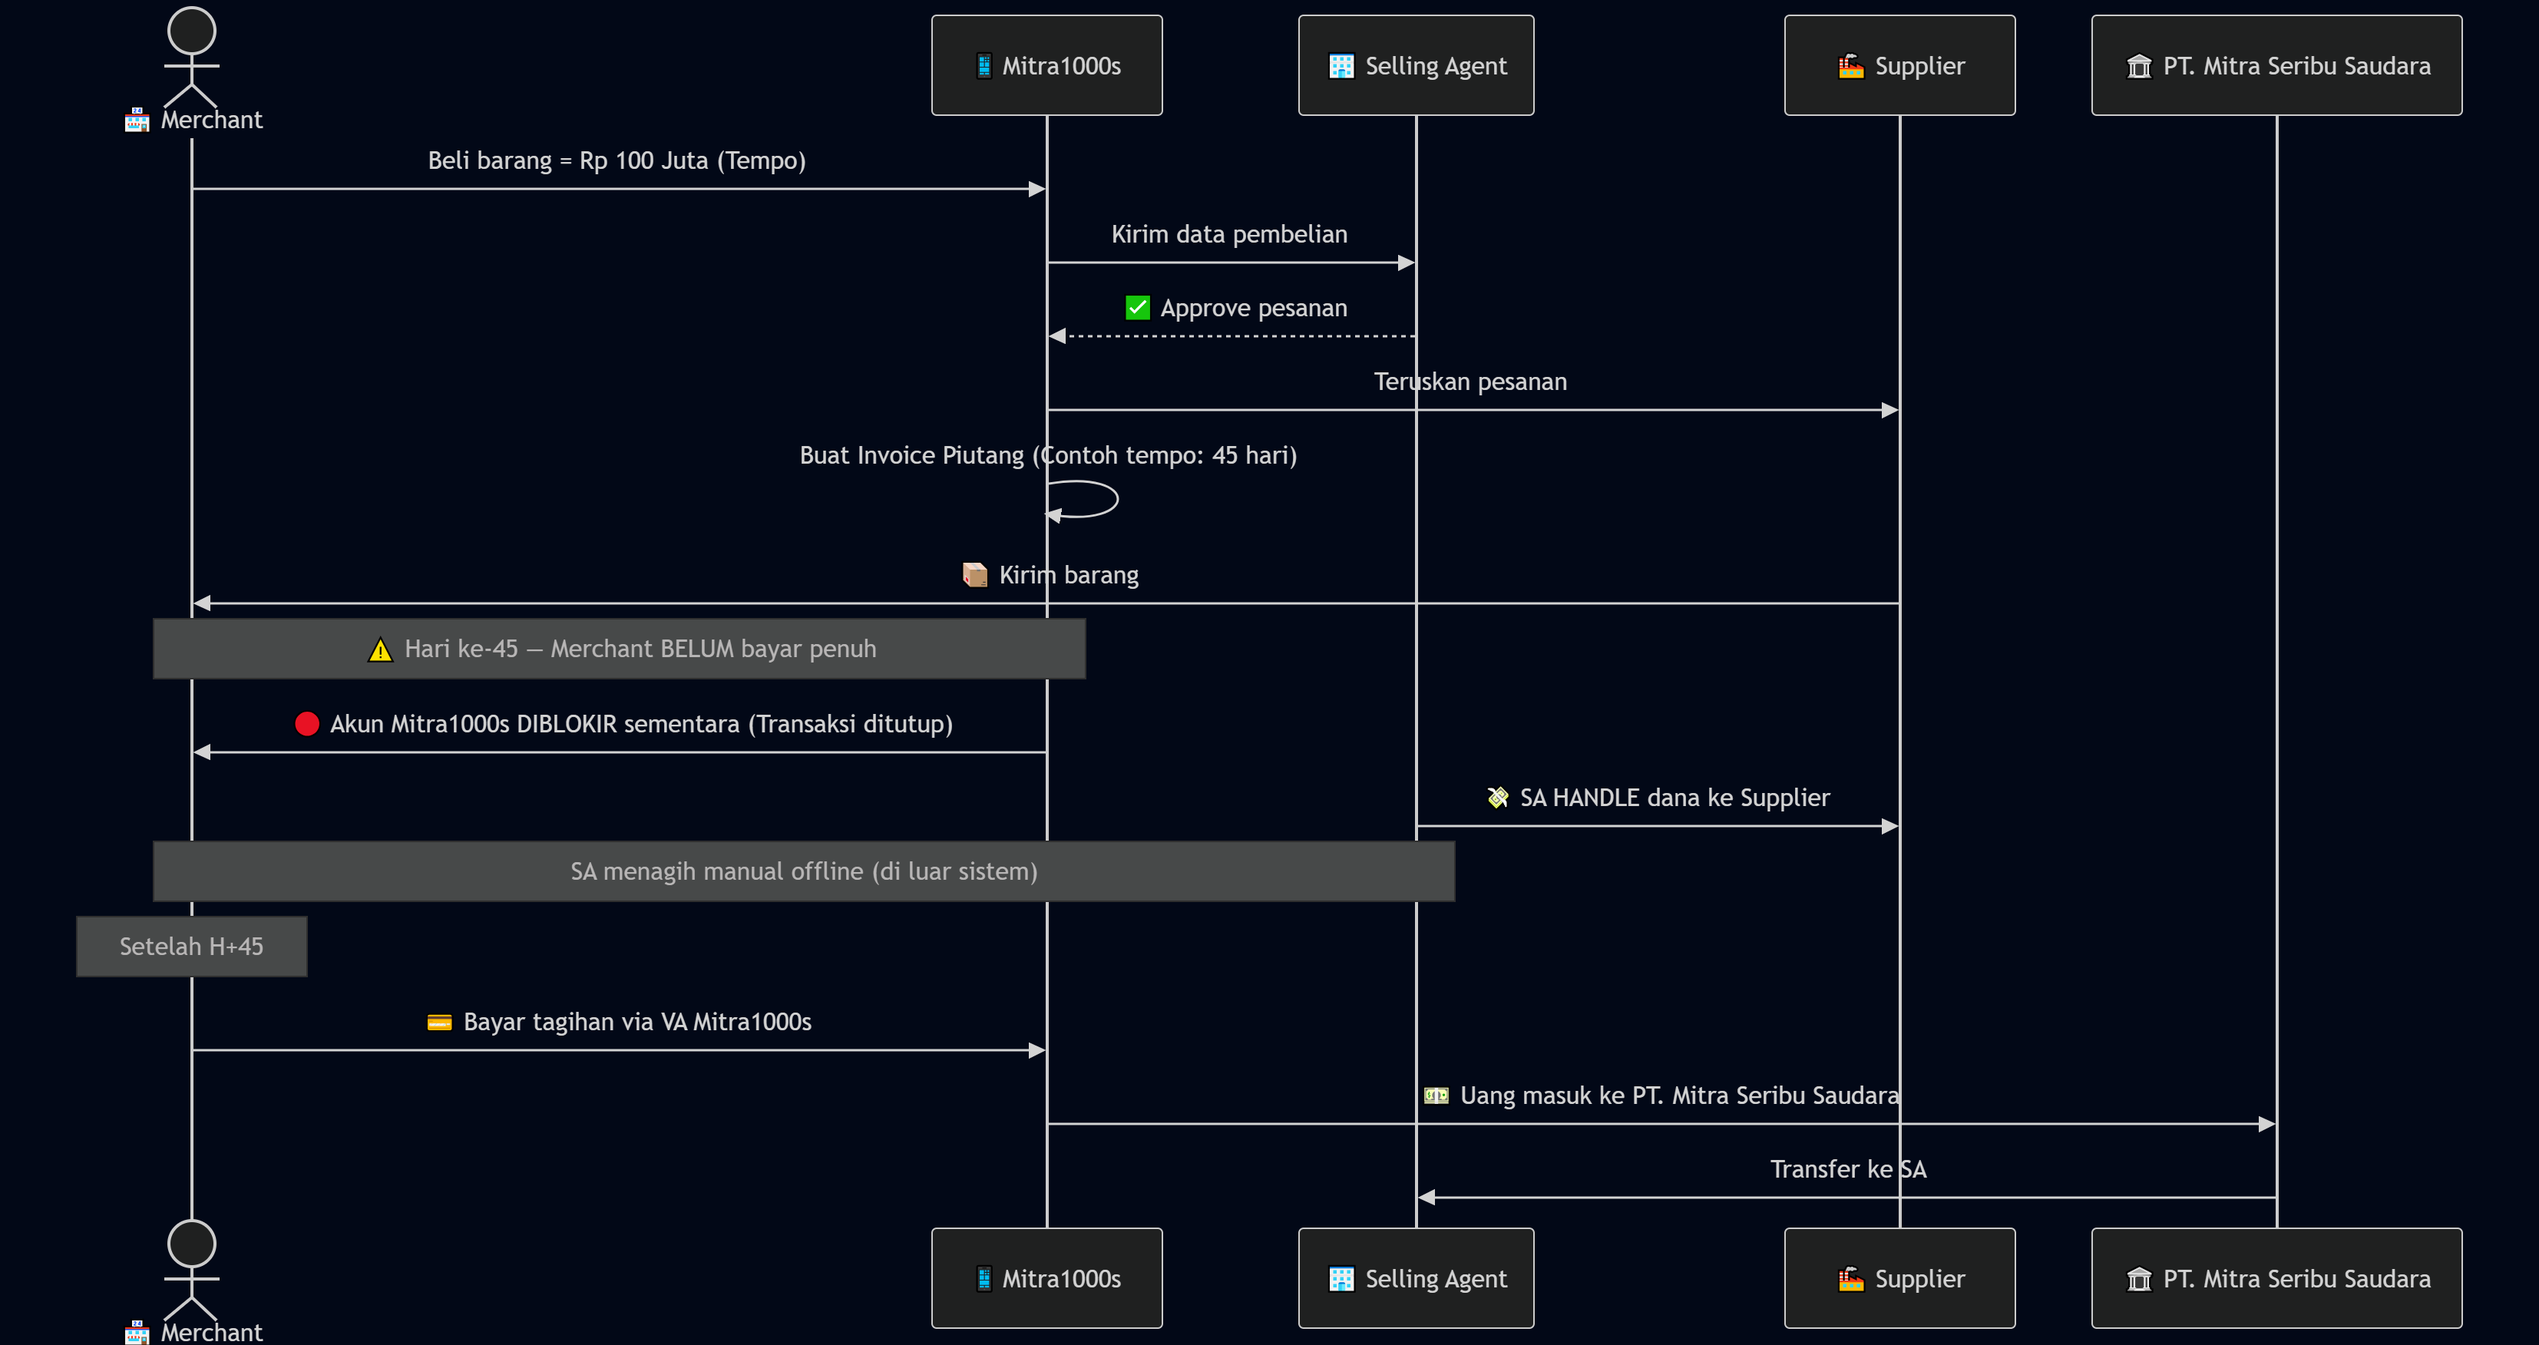
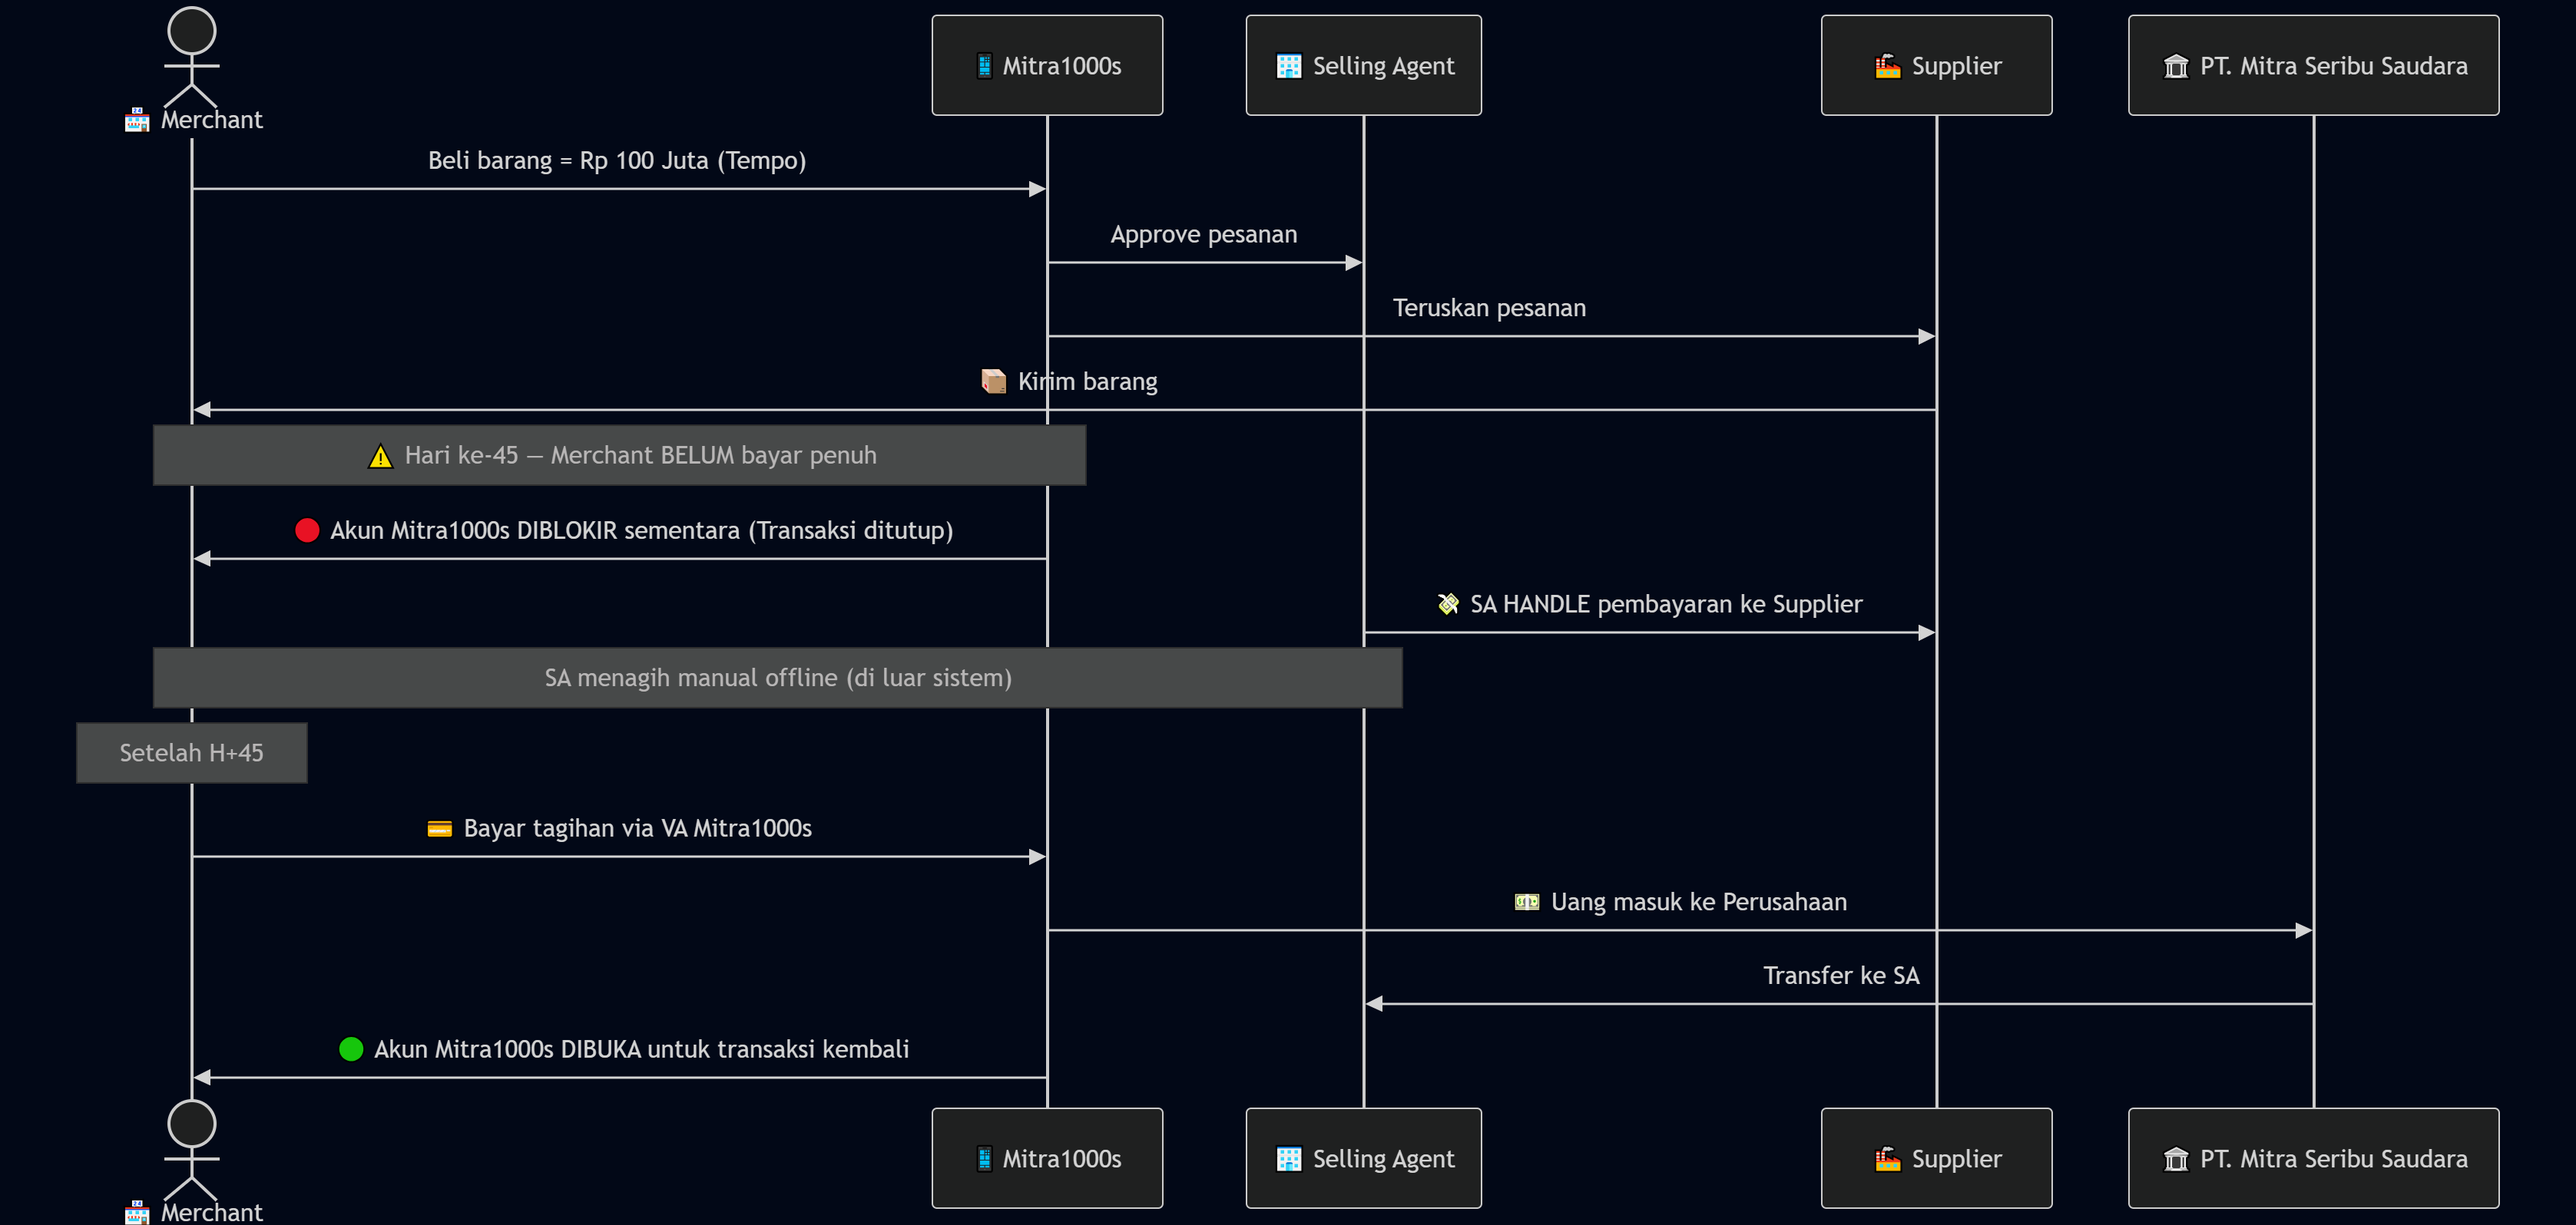
Order beli lunas pengajuan kredit

diff --git a/index.html b/index.html
@@ -12,7 +12,7 @@
 
 <body>
   <div class="progress-bar" id="progressBar"></div>
-  <div class="slide-counter" id="slideCounter">1 / 18</div>
+  <div class="slide-counter" id="slideCounter">1 / 15</div>
   <nav class="nav-arrows">
     <button class="nav-btn" id="prevBtn" onclick="changeSlide(-1)">‹</button>
     <button class="nav-btn" id="nextBtn" onclick="changeSlide(1)">›</button>
@@ -140,66 +140,36 @@
         </div>
       </div>
     </div>
-    </div>
   </section>
 
   <!-- SLIDE 6: Pembukaan Akun Kredit -->
   <section class="slide" id="slide-5">
     <div class="slide-inner">
-      <div class="slide-label">FASE 1-3 (PENDAFTARAN)</div>
-      <h2>Pengajuan & <span class="accent">Auto-Approve</span></h2>
+      <div class="slide-label">FLOW 3 — FASE PENDAFTARAN</div>
+      <h2>Pengajuan & <span class="accent">Pemberian Limit</span></h2>
       <div class="diagram-container" onclick="openZoom(this)">
-        <img src="pembukaan_akun_kredit.png" alt="Pembukaan Akun Kredit">
+        <img src="pengajuan_akun.png" alt="Pengajuan Akun Kredit">
       </div>
     </div>
   </section>
 
-  <!-- SLIDE 7: Fintech Flow Skema Lama Tanpa Skip -->
+  <!-- SLIDE 7: Fintech End To End Master Skema Lama -->
   <section class="slide" id="slide-6">
     <div class="slide-inner">
-      <div class="slide-label">FLOW 3 — SKEMA PERTAMA (KUMULATIF DI AKHIR)</div>
-      <h2>Solusi <span class="accent">Utama</span> (TANPA SKIP PAYMENT)</h2>
+      <div class="slide-label">FLOW 4 — MASTER END-TO-END STORYTELLING</div>
+      <h2>Order Beli <span class="accent">Hingga Lunas Tagihan</span> Fintech1000s</h2>
       <div class="diagram-container" onclick="openZoom(this)">
-        <img src="skema_lama_tanpa_skip.png" alt="Skema Lama Tanpa Skip">
+        <img src="end_to_end_skema_lama.png" alt="End-To-End Restrukturisasi Skema Lama">
+      </div>
+      <div class="calc-note" style="margin-top: 10px; font-size: 0.85rem">
+        Alur Master: Transaksi Normal ➔ Jatuh Tempo ➔ Akun Terblokir ➔ Validasi Akun Kredit Limit ➔ Pembayaran Parsial ➔
+        Akun Dibuka ➔ Cicilan Restruk (Pokok diangsur, Bunga diakumulasi bayar akhir).
       </div>
     </div>
   </section>
 
-  <!-- SLIDE 7: Fintech Flow Skema Lama Dengan Skip -->
-  <section class="slide" id="slide-6">
-    <div class="slide-inner">
-      <div class="slide-label">FLOW 3 — SKEMA PERTAMA (KUMULATIF DI AKHIR)</div>
-      <h2>Solusi <span class="accent-red">Utama</span> (DENGAN SKIP PAYMENT M-2)</h2>
-      <div class="diagram-container" onclick="openZoom(this)">
-        <img src="skema_lama_dengan_skip.png" alt="Skema Lama Dengan Skip">
-      </div>
-    </div>
-  </section>
-
-  <!-- SLIDE 8: Fintech Flow Skema Baru Tanpa Skip -->
+  <!-- SLIDE 8: Interest Table -->
   <section class="slide" id="slide-7">
-    <div class="slide-inner">
-      <div class="slide-label">FLOW 4 — SKEMA KEDUA (PAY-AS-YOU-GO)</div>
-      <h2>Opsi <span class="accent-orange">Inovatif</span> (TANPA SKIP PAYMENT)</h2>
-      <div class="diagram-container" onclick="openZoom(this)">
-        <img src="skema_baru_tanpa_skip.png" alt="Skema Baru Tanpa Skip">
-      </div>
-    </div>
-  </section>
-
-  <!-- SLIDE 9: Fintech Flow Skema Baru Dengan Skip -->
-  <section class="slide" id="slide-8">
-    <div class="slide-inner">
-      <div class="slide-label">FLOW 4 — SKEMA KEDUA (PAY-AS-YOU-GO)</div>
-      <h2>Opsi <span class="accent-orange">Inovatif</span> (DENGAN SKIP PAYMENT M-2)</h2>
-      <div class="diagram-container" onclick="openZoom(this)">
-        <img src="skema_baru_dengan_skip.png" alt="Skema Baru Dengan Skip">
-      </div>
-    </div>
-  </section>
-
-  <!-- SLIDE 10: Interest Table -->
-  <section class="slide" id="slide-9">
     <div class="slide-inner">
       <div class="slide-label">SKEMA BUNGA</div>
       <h2>Rate Increment: <span class="accent">0.25% per 7 Hari</span></h2>
@@ -257,11 +227,11 @@
     </div>
   </section>
 
-  <!-- SLIDE 11: Skenario 1 -->
-  <section class="slide" id="slide-10">
+  <!-- SLIDE 9: Skenario 1 -->
+  <section class="slide" id="slide-8">
     <div class="slide-inner">
       <div class="slide-label">SKENARIO 1 (TANPA SKIP)</div>
-      <h2>Tepat Waktu — <span class="accent">Skema Pertama</span> (Kumulatif Akhir)</h2>
+      <h2>Tepat Waktu — <span class="accent">Skema Lama</span> (Kumulatif Akhir)</h2>
       <table class="calc-table">
         <thead>
           <tr>
@@ -314,11 +284,11 @@
     </div>
   </section>
 
-  <!-- SLIDE 12: Skenario 2 -->
-  <section class="slide" id="slide-11">
+  <!-- SLIDE 10: Skenario 2 -->
+  <section class="slide" id="slide-9">
     <div class="slide-inner">
       <div class="slide-label">SKENARIO 2 (TANPA SKIP)</div>
-      <h2>Tepat Waktu — <span class="accent-orange">Skema Kedua</span> (Pay-as-you-go)</h2>
+      <h2>Tepat Waktu — <span class="accent-orange">Skema Baru</span> (Pay-as-you-go)</h2>
       <table class="calc-table">
         <thead>
           <tr>
@@ -361,11 +331,11 @@
     </div>
   </section>
 
-  <!-- SLIDE 13: Skenario 3 -->
-  <section class="slide" id="slide-12">
+  <!-- SLIDE 11: Skenario 3 -->
+  <section class="slide" id="slide-10">
     <div class="slide-inner">
       <div class="slide-label">SKENARIO 3 (DENGAN SKIP PAYMENT di M-2)</div>
-      <h2>Bolong Cicilan — <span class="accent">Skema Pertama</span> (Kumulatif Akhir)</h2>
+      <h2>Bolong Cicilan — <span class="accent">Skema Lama</span> (Kumulatif Akhir)</h2>
       <table class="calc-table">
         <thead>
           <tr>
@@ -389,7 +359,7 @@
             <td>Rp 67.000.000</td>
             <td class="text-bold text-red" style="color: #ef4444">Rp 0 (SKIP) ⚠</td>
             <td class="text-red">Rp 67.000.000</td>
-            <td class="text-orange">Rp 167.500 (Bunga mengendap besar)</td>
+            <td class="text-orange">Rp 167.500 (Bunga mengendap)</td>
           </tr>
           <tr>
             <td><span class="week-badge">3</span></td>
@@ -413,16 +383,16 @@
           <div class="cs-value text-green">Rp 34 Jt (Sisa Pokok) + Rp 670.000 (Denda Akumulasi) = Rp 34.670.000</div>
         </div>
       </div>
-      <div class="calc-note">Total beban bunga karena menunggak/pokok tertahan satu minggu menjadi besar di Rp 670.000.
-      </div>
+      <div class="calc-note">Total beban bunga karena menunggak/pokok tertahan satu minggu menjadi membengkak besar di
+        Rp 670.000.</div>
     </div>
   </section>
 
-  <!-- SLIDE 14: Skenario 4 -->
-  <section class="slide" id="slide-13">
+  <!-- SLIDE 12: Skenario 4 -->
+  <section class="slide" id="slide-11">
     <div class="slide-inner">
       <div class="slide-label">SKENARIO 4 (DENGAN SKIP PAYMENT di M-2)</div>
-      <h2>Bolong Cicilan — <span class="accent-orange">Skema Kedua</span> (Pay-as-you-go)</h2>
+      <h2>Bolong Cicilan — <span class="accent-orange">Skema Baru</span> (Pay-as-you-go)</h2>
       <table class="calc-table">
         <thead>
           <tr>
@@ -442,7 +412,7 @@
           <tr style="background: rgba(239,68,68,0.06);">
             <td>M-2 (0.50%)</td>
             <td class="text-bold text-red" style="color:#ef4444">Rp 0 (SKIP) ⚠</td>
-            <td class="text-orange">Rp 0 (IT Sistem Diam)</td>
+            <td class="text-orange">Rp 0</td>
             <td class="text-bold text-green">Rp 0</td>
           </tr>
           <tr>
@@ -460,14 +430,14 @@
         </tbody>
       </table>
       <div class="calc-note" style="margin-top:20px; font-size:0.9rem"><strong>The Beauty of Pay-As-You-Go:</strong>
-        Total denda bunga sama persis yakni <strong>± Rp 670.000</strong>. Hukuman Merchant yang bolong bayar langsung
-        terselesaikan natural oleh <strong>Rate Eskalasi Mingguan</strong> yang membesar, sehingga Server tidak perlu
-        memproses algoritma saldo mengendap.</div>
+        Total keuntungan / denda yang ditangkap Selling Agent sama persis yakni <strong>± Rp 670.000</strong>. Merchant
+        otomatis terhukum oleh <strong>Rate Eskalasi Mingguan</strong> yang membesar, hal ini membebaskan Server IT dari
+        tugas rekonsiliasi denda tertahan.</div>
     </div>
   </section>
 
-  <!-- SLIDE 15: Key Rules -->
-  <section class="slide" id="slide-14">
+  <!-- SLIDE 13: Key Rules -->
+  <section class="slide" id="slide-12">
     <div class="slide-inner">
       <div class="slide-label">ATURAN BISNIS FINTECH1000S</div>
       <h2>Key <span class="accent">Takeaways</span></h2>
@@ -514,8 +484,8 @@
     </div>
   </section>
 
-  <!-- SLIDE 16: Money Flow -->
-  <section class="slide" id="slide-15">
+  <!-- SLIDE 14: Money Flow -->
+  <section class="slide" id="slide-13">
     <div class="slide-inner">
       <div class="slide-label">ALUR UANG</div>
       <h2>Settlement <span class="accent">Flow</span></h2>
@@ -556,8 +526,8 @@
     </div>
   </section>
 
-  <!-- SLIDE 17: Closing -->
-  <section class="slide" id="slide-16">
+  <!-- SLIDE 15: Closing -->
+  <section class="slide" id="slide-14">
     <div class="slide-inner cover-slide">
       <div class="cover-badge">SUMMARY</div>
       <h1 class="cover-title" style="font-size:2.8rem">Business Flow<br><span class="accent">Complete</span></h1>

diff --git a/flow-deck.js b/flow-deck.js
@@ -1,5 +1,5 @@
 let currentSlide = 0;
-const totalSlides = 18;
+const totalSlides = 15;
 
 function changeSlide(direction) {
   if (document.getElementById('zoomOverlay').classList.contains('active')) return;
